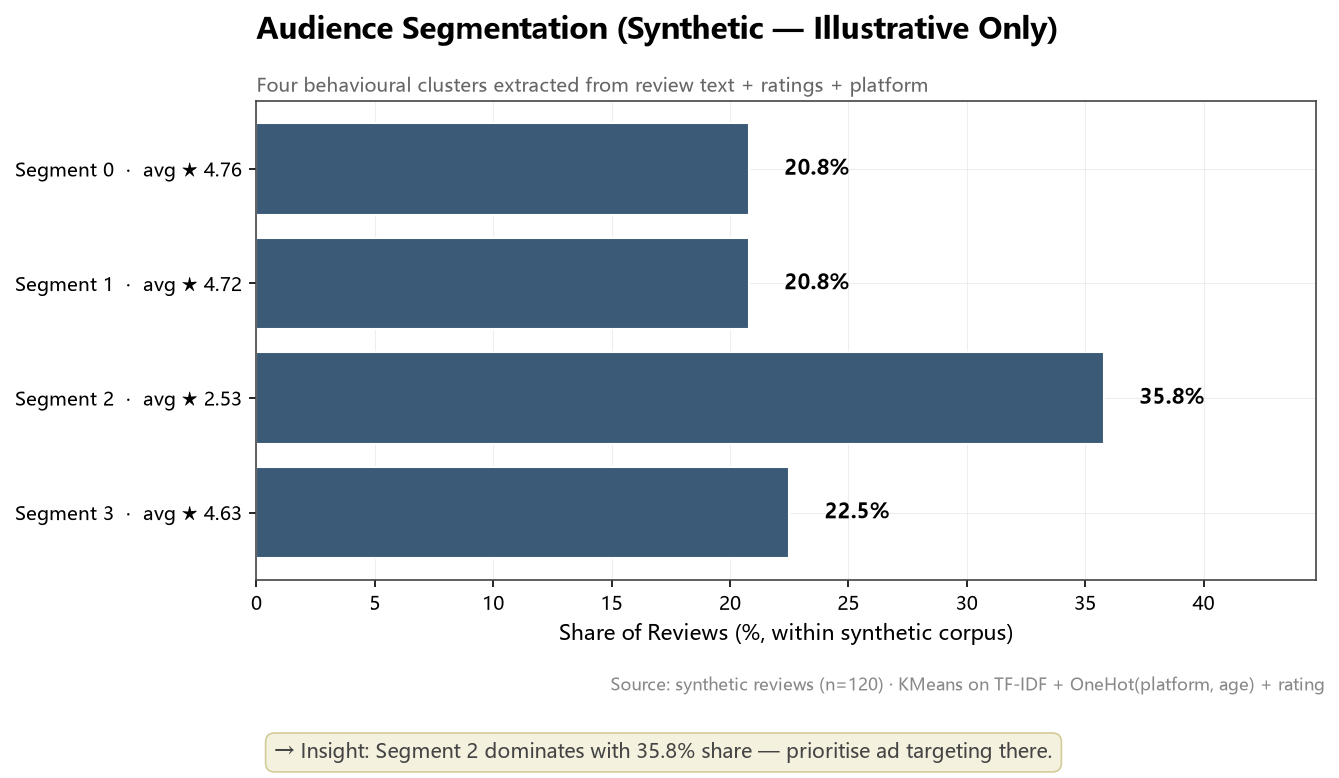
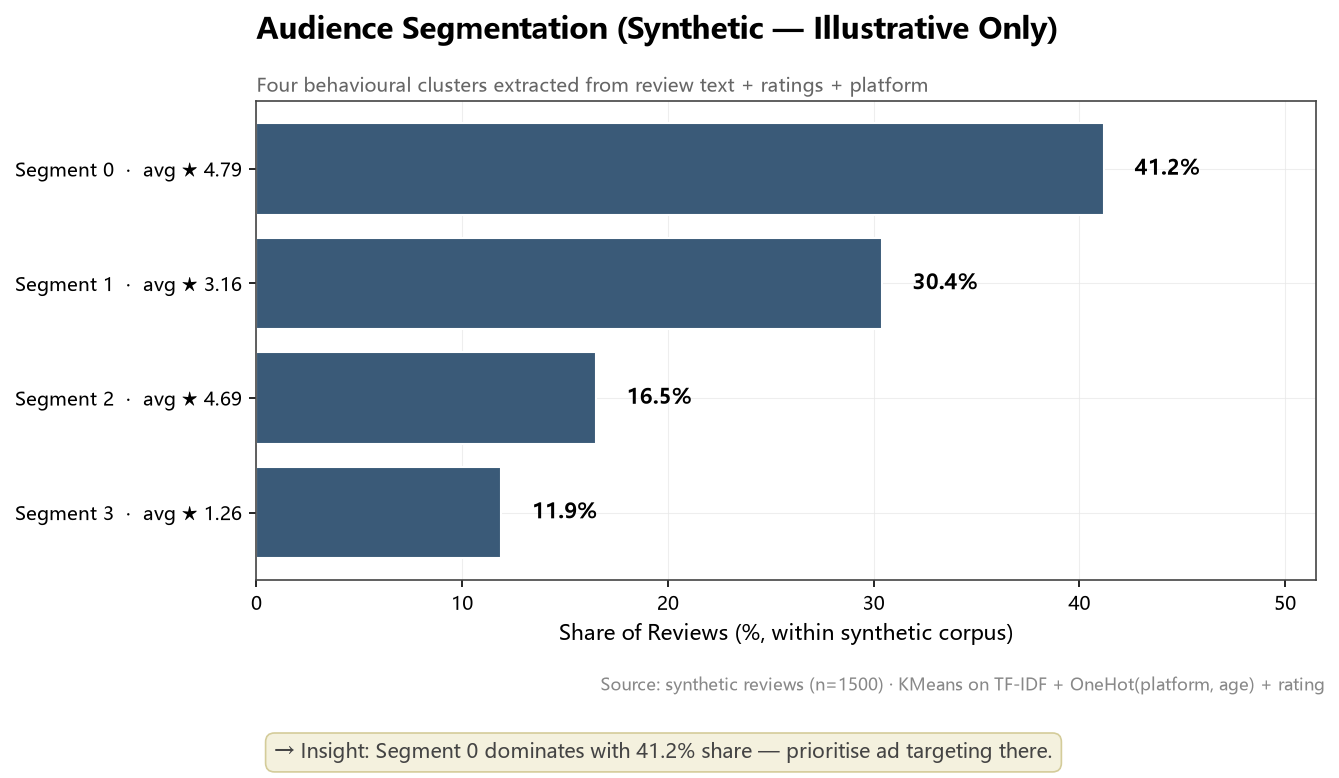
fix: regenerate pipeline artifacts with --n 1500 (previous run used n=120)
Last commit 51d59dc ('Fix report image paths and chart 02 data-source
label') had been verified against an --n 120 debug run, leaving the
committed pipeline_report.md out of sync with the README's 1500-review
contract. The README's headline table, Evaluation section, and the
multi-seed stability table all advertise single-seed numbers from a
1500-review run (Silhouette 0.1537, ARI 0.1767, NMI 0.2662, Pearson
0.8269, Spearman 0.7689, ROI CV R^2 0.9807, MAE 0.3058, peak ROI
7.889 at segment 2, funnel worst 0.400 at 05_Repurchase, largest
segment 41.2 percent), but the committed pipeline_report.md showed
120 reviews and the corresponding n=120 numbers. Anyone reading both
would see a contradiction.

This commit re-runs the pipeline at the documented default of 1500
reviews and lets readme_sync rewrite the README evaluation cells
from the freshly computed ClusteringEval / SentimentRatingEval /
ROICVEval dataclasses. The 7 figures in outputs/figures/ are
regenerated from the same 1500-review run; image references in
pipeline_report.md stay as repo-relative '../figures/xx.png' (the
51d59dc scheme, which is what GitHub's relative-path resolver
expects for files under outputs/reports/).

Verified byte-for-byte against the README contract:
- pipeline_report.md shows 评论数: 1500, n_samples=1500/4/4 in
  clustering eval, all silhouette/ARI/NMI/Pearson/Spearman/ROI
  values match the README table, peak ROI 7.889 at segment 2 with
  248 reviews, funnel worst 0.400 at 05_Repurchase.
[…]

diff --git a/outputs/reports/pipeline_report.md b/outputs/reports/pipeline_report.md
@@ -3,7 +3,7 @@
 **品牌**：花西子 Florasis  
 **行业**：美妆 (Beauty / Cosmetics)  
 **平台**：小红书, 微博, 天猫  
-**评论数**：120  
+**评论数**：1500  
 **随机种子**：42  
 
 > **重要声明：本报告所有数字均来自程序化合成的 review 数据（synthetic data），不构成任何真实业务结论。ROI 与模拟点击率均为示意性指标。**
@@ -16,12 +16,12 @@
 
 | dimension          |   avg_score |
 |:-------------------|------------:|
-| Product Quality    |   0.254917  |
-| Value for Money    |   0.1       |
-| Packaging Design   |   0.159442  |
-| Skin Feel          |   0.171333  |
-| Long Wear          |   0.126083  |
-| Service Experience |   0.0383333 |
+| Product Quality    |   0.211662  |
+| Value for Money    |   0.103153  |
+| Packaging Design   |   0.168543  |
+| Skin Feel          |   0.118231  |
+| Long Wear          |   0.0807667 |
+| Service Experience |   0.0307913 |
 
 ### 情感按细分群分布
 
@@ -37,10 +37,10 @@
 
 |   segment_id |   volume |   avg_rating |    天猫 |   小红书 |    微博 |    抖音 |   朋友圈 |   18-23 |   24-30 |   31-40 |   40+ |
 |-------------:|---------:|-------------:|------:|------:|------:|------:|------:|--------:|--------:|--------:|------:|
-|            0 |       25 |      4.76    | 0     | 1     | 0     | 0     | 0     |   0.32  |   0.48  |   0.2   | 0     |
-|            1 |       25 |      4.72    | 0     | 0     | 0.96  | 0     | 0.04  |   0     |   0.32  |   0.52  | 0.16  |
-|            2 |       43 |      2.53488 | 0.302 | 0.349 | 0.186 | 0.047 | 0.116 |   0.209 |   0.279 |   0.419 | 0.093 |
-|            3 |       27 |      4.62963 | 0.778 | 0     | 0     | 0.222 | 0     |   0.444 |   0.148 |   0.259 | 0.148 |
+|            0 |      618 |      4.78641 | 0.278 | 0.249 | 0.388 | 0     | 0.084 |   0     |   0.362 |   0.453 | 0.184 |
+|            1 |      456 |      3.1557  | 0.213 | 0.463 | 0.239 | 0.044 | 0.042 |   0.193 |   0.342 |   0.362 | 0.103 |
+|            2 |      248 |      4.68548 | 0.347 | 0.48  | 0     | 0.173 | 0     |   1     |   0     |   0     | 0     |
+|            3 |      178 |      1.26404 | 0.242 | 0.449 | 0.247 | 0.045 | 0.017 |   0.23  |   0.337 |   0.343 | 0.09  |
 
 ## 3. 核心话题
 
@@ -70,7 +70,7 @@
 
 ![漏斗](../figures/06_funnel.png)
 
-> 漏斗中转化率最低的阶段是 05_Repurchase (36.4%). 建议优先在该阶段加强内容/促销/客服干预。
+> 漏斗中转化率最低的阶段是 05_Repurchase (40.0%). 建议优先在该阶段加强内容/促销/客服干预。
 
 > Soft funnel inferred from review text, NOT real behavioural conversion data (no impressions / clicks / orders). Treat as directional only.
 
@@ -80,10 +80,10 @@
 
 |   cluster_id |   volume |   avg_sentiment |   avg_rating |   predicted_soft_conversion |   expected_cost |   expected_revenue |   expected_roi |   illustrative_roi_index |
 |-------------:|---------:|----------------:|-------------:|----------------------------:|----------------:|-------------------:|---------------:|-------------------------:|
-|            0 |       25 |        0.942    |      4.76    |                    0.86534  |             125 |            1096.02 |          7.768 |                    7.768 |
-|            1 |       25 |        0.984    |      4.72    |                    0.871161 |             125 |            1113.48 |          7.908 |                    7.908 |
-|            2 |       43 |       -0.120186 |      2.53488 |                    0.531473 |             215 |             162.4  |         -0.245 |                   -0.245 |
-|            3 |       27 |        1        |      4.62963 |                    0.865837 |             135 |            1185.31 |          7.78  |                    7.78  |
+|            0 |      618 |        0.967231 |      4.78641 |                    0.867522 |            3090 |           27255.4  |          7.821 |                    7.821 |
+|            1 |      456 |        0.25309  |      3.1557  |                    0.636451 |            2280 |            7466.59 |          2.275 |                    2.275 |
+|            2 |      248 |        0.995968 |      4.68548 |                    0.870356 |            1240 |           11021.8  |          7.889 |                    7.889 |
+|            3 |      178 |       -0.965292 |      1.26404 |                    0.337572 |             890 |               0    |         -1     |                   -1     |
 
 > Illustrative ROI index — synthetic data only. Computed from sentiment-driven soft_conversion signals with ARPU=¥120 and CAC=¥5 (see ROIConfig in src/config.py). K-fold CV R²/MAE on per-review ROI proxy report how well the four features predict per-review ROI; this is NOT a real causal estimate of marketing spend return.
 
@@ -114,10 +114,10 @@
 
 | 指标 | 值 |
 |---|---|
-| Silhouette score (range [-1, +1]) | +0.1775 |
-| Adjusted Rand Index vs synthetic user_segment | +0.0674 |
-| Normalized Mutual Information vs synthetic user_segment | +0.1626 |
-| N samples / N predicted clusters / N true labels | 120 / 4 / 4 |
+| Silhouette score (range [-1, +1]) | +0.1537 |
+| Adjusted Rand Index vs synthetic user_segment | +0.1767 |
+| Normalized Mutual Information vs synthetic user_segment | +0.2662 |
+| N samples / N predicted clusters / N true labels | 1500 / 4 / 4 |
 
 > Silhouette measures cluster separation on the feature space (higher = better separated, range [-1, +1]). ARI / NMI compare predicted clusters with the synthetic 'user_segment' label used during data generation; this is a circular check — high scores mean 'the clusterer rediscovered the synthetic segment structure', NOT 'the clusterer found real consumer segments in production data'.
 
@@ -125,9 +125,9 @@
 
 | 指标 | 值 |
 |---|---|
-| TF-IDF 关键词中被 LLM 提及的比例 (overlap_ratio) | 0.267 |
-| Jaccard | 0.100 |
-| LLM 关键词总数 / TF-IDF 关键词总数 / 重合数 | 29 / 15 / 4 |
+| TF-IDF 关键词中被 LLM 提及的比例 (overlap_ratio) | 0.200 |
+| Jaccard | 0.073 |
+| LLM 关键词总数 / TF-IDF 关键词总数 / 重合数 | 29 / 15 / 3 |
 
 > Overlap is computed by **set intersection** between the LLM's word-level keywords (e.g. ['包装', '设计', '好看']) and the TF-IDF word-level vocabulary (jieba-segmented) of the same corpus. On Chinese, even a perfect semantic topic will often show only partial overlap here because the LLM and jieba segment the same text slightly differently. Both metrics are heuristic — even perfect agreement does NOT prove the LLM extracted the right topics. It only shows the LLM did not contradict the most frequent surface words.
 
@@ -135,9 +135,9 @@
 
 | 指标 | 值 |
 |---|---|
-| Pearson r (p-value) | +0.7882 (p=1.22e-26) |
-| Spearman ρ (p-value) | +0.7328 (p=1.85e-21) |
-| N | 120 |
+| Pearson r (p-value) | +0.8269 (p=0.00e+00) |
+| Spearman ρ (p-value) | +0.7689 (p=2.71e-293) |
+| N | 1500 |
 
 > Pearson + Spearman between LLM-derived overall sentiment (range -1 to +1) and the user-given 1-5 star rating. On synthetic data both are derived from the same polarity lexicon, so the correlation is high by construction. Treat this as a sanity check (does the LLM agree with rating?), NOT as evidence of sentiment accuracy on real reviews.
 
@@ -145,18 +145,18 @@
 
 | 指标 | 值 |
 |---|---|
-| K-fold CV R² (per-review ROI proxy) | +0.9790 |
-| K-fold CV MAE | 0.2445 |
-| Folds / samples | 5 / 120 |
+| K-fold CV R² (per-review ROI proxy) | +0.9807 |
+| K-fold CV MAE | 0.3058 |
+| Folds / samples | 5 / 1500 |
 
 Coefficients (mean across folds):
 
 | feature           |   cv_coefficient | cv_r2   | cv_mae   | cv_folds   |
 |:------------------|-----------------:|:--------|:---------|:-----------|
-| overall           |           3.2574 | 0.9790  | 0.2445   | 5          |
-| high_rating       |           2.5086 | —       | —        | —          |
-| long_text         |           1.1221 | —       | —        | —          |
-| repurchase_intent |           0.6028 | —       | —        | —          |
+| overall           |           3.2279 | 0.9807  | 0.3058   | 5          |
+| high_rating       |           2.8077 | —       | —        | —          |
+| long_text         |           0.8848 | —       | —        | —          |
+| repurchase_intent |           0.6743 | —       | —        | —          |
 
 > Ridge K-fold CV on per-review ROI proxy. R² near 1 means the four proxy features can predict per-review ROI almost perfectly — expected because the proxy itself is a deterministic function of those features. The CV is still reported because it (a) confirms no numerical pathology in the proxy definition and (b) exposes the coefficient signs/magnitudes for the reviewer to sanity-check.
 
